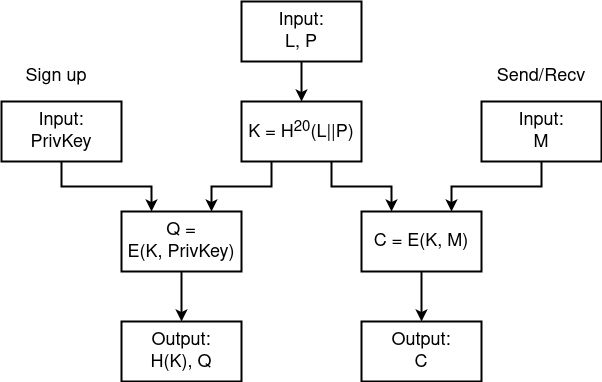
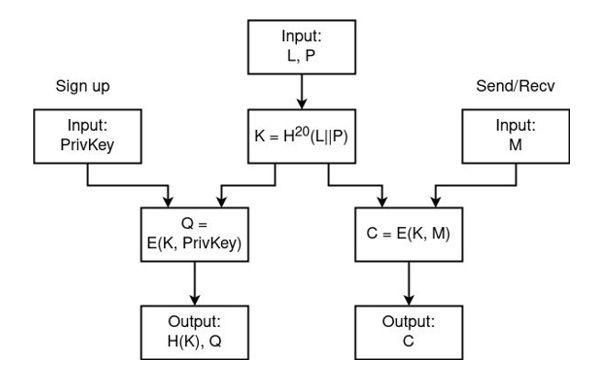
update

Changed region(s): [[0.0, 0.0, 1.0, 1.0]]

diff --git a/README.md b/README.md
@@ -23,18 +23,24 @@ A feature of HLS (compared to many other anonymous networks) is its easy adaptat
 
 Each network participant sets a message generation period for himself (the period can be a network constant for all system participants). When one cycle of the period ends and the next begins, each participant sends his encrypted message to all his connections (those in turn to all of their own, etc.). If there is no true message to send, then a pseudo message is generated (filled with random bytes) that looks like a normal encrypted one. The period property ensures the anonymity of the sender.
 
-<img src="examples/images/hls_queue.jpg" alt="hls_queue.jpg"/>
-<p align="center">Figure 1. Queue and message generation in HLS.<p>
+<p align="center">
+    <img src="examples/images/hls_queue.jpg" alt="hls_queue.jpg"/>
+    Figure 1. Queue and message generation in HLS.
+<p>
 
 Since the encrypted message does not disclose the recipient in any way, each network participant tries to decrypt the message with his private key. The true recipient is only the one who can decrypt the message. At the same time, the true recipient acts according to the protocol and further distributes the received packet, even knowing the meaninglessness of the subsequent dispatch. This property makes it impossible to determine the recipient.
 
-<img src="examples/images/hls_view.jpg" alt="hls_view.jpg"/>
-<p align="center">Figure 2. Two participants are constantly generating messages for their periods on the network. It is impossible to determine their real activity.<p>
+<p align="center">
+    <img src="examples/images/hls_view.jpg" alt="hls_view.jpg"/>
+    Figure 2. Two participants are constantly generating messages for their periods on the network. It is impossible to determine their real activity.
+<p>
 
 Data exchange between network participants is carried out using application services. HLS has a dual role: 1) packages traffic from pure to anonymizing and vice versa; 2) converts external traffic to internal and vice versa. The second property is the redirection of traffic from the network to the local service and back.
 
-<img src="examples/images/hls_service.jpg" alt="hls_service.jpg"/>
-<p align="center">Figure 3. Interaction of third-party services with the traffic anonymization service.<p>
+<p align="center">
+    <img src="examples/images/hls_service.jpg" alt="hls_service.jpg"/>
+    Figure 3. Interaction of third-party services with the traffic anonymization service.
+<p>
 
 As shown in the figure above, HLS acts as an anonymizer and handlers of incoming and outgoing traffic. The remaining parts in the form of applications and services depend on third-party components (as an example, `HLM`).
 
@@ -98,8 +104,10 @@ $ make
 
 Logs from `middle_hls` node. When sending requests and receiving responses, `middle_hls` does not see the action. For him, all actions and moments of inaction are equivalent.
 
-<img src="examples/images/hls_logger.png" alt="hls_logger.png"/>
-<p align="center">Figure 4. Output of all actions and all received traffic from the middle_hls node.<p>
+<p align="center">
+    <img src="examples/images/hls_logger.png" alt="hls_logger.png"/>
+    Figure 4. Output of all actions and all received traffic from the middle_hls node.
+<p>
 
 Send request
 ```bash
@@ -143,8 +151,10 @@ Firstly, there is registration and authorization, which does not exist in the HL
 
 The encryption of the private key is carried out on the basis of the entered `login (L) / password (P)`, where the login acts as a cryptographic salt. The concatenation of the login and password `L||P` is hashed `2^20` times `K = H(L||H(...L||(H(L||P)...))` to increase the password security by about `20 bits` of entropy and turn it into an encryption key `K`. The resulting `K` is additionally hashed by `H(K)` and stored together with the encrypted version of the private key `Q = E(K, PrivKey)`.
 
-<img src="examples/images/hlm_auth.jpg" alt="hlm_auth.jpg"/>
-<p align="center">Figure 5. Data encryption with different types of input parameters.<p>
+<p align="center">
+    <img src="examples/images/hlm_auth.jpg" alt="hlm_auth.jpg"/>
+    Figure 5. Data encryption with different types of input parameters.
+<p>
 
 Authorization is performed by entering a `login/password`, their subsequent conversion to `K' and H(K')`, subsequent comparison with the stored hash `H(K) = H(K')?` and subsequent decryption of the private key `D(K, Q) = D(K, E(K, PrivKey)) = PrivKey`.
 
@@ -163,8 +173,10 @@ $ make
 The output of the `middle_hls` node is similar to `Figure 4`.
 
 Than open browser on `localhost:8080`
-<img src="examples/images/hlm_about.png" alt="hlm_about.png"/>
-<p align="center">Figure 6. Home page of the HLM application.<p>
+<p align="center">
+    <img src="examples/images/hlm_about.png" alt="hlm_about.png"/>
+    Figure 6. Home page of the HLM application.
+<p>
 
 Next, you need to register by going to the Sign up page. Enter your `login/password` and insert the private key `priv.key`. That key is located in `examples/cmd/anon_messenger/node2_hlm`.
 
